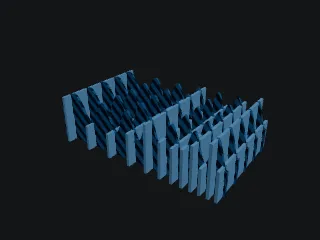
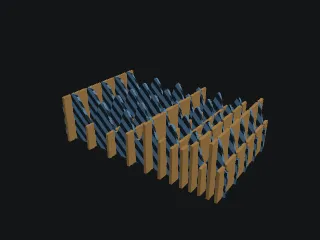
Example previews: each example is pictured from a fresh page, so no picture takes its look from the one before

Changed region(s): [[0.1875, 0.2917, 0.8438, 0.8458]]

diff --git a/scripts/example_previews.py b/scripts/example_previews.py
@@ -27,16 +27,20 @@ def main():
     bad = []
     with serve_app() as url, sync_playwright() as p:
         browser = p.chromium.launch()
-        page = browser.new_page(viewport={"width": 1500, "height": 950})
-        page.errors = []
-        page.on("pageerror", lambda e: page.errors.append(str(e)))
-        page.goto(url + "/")
-        page.wait_for_function("() => window.__t?.openExample", timeout=180_000)   # set only once init() passed its awaits
-        settle(page)
         for name in sorted(f.stem for f in (ROOT / "examples").glob("*.stl")):
+            # a fresh page for each: in one page an example that names no material kept the one before it's, and with
+            # it the look (head_igea came out in fold_test's plastic). A new context also starts with empty storage
+            ctx = browser.new_context(viewport={"width": 1500, "height": 950})
+            page = ctx.new_page()
+            page.errors = []
+            page.on("pageerror", lambda e, page=page: page.errors.append(str(e)))
+            page.goto(url + "/")
+            page.wait_for_function("() => window.__t?.openExample", timeout=180_000)   # set only once init() passed its awaits
+            settle(page)
             page.evaluate("n => __t.openExample(n)", name)
             settle(page, timeout=600_000)   # the bunny alone takes minutes on a busy machine; a batch job can wait
             data = page.evaluate("() => __t.snapshot()") or ""
+            ctx.close()
             if not data.startswith(PREFIX):
                 bad.append(f"{name}: {data[:30] or 'empty'}")
                 continue
